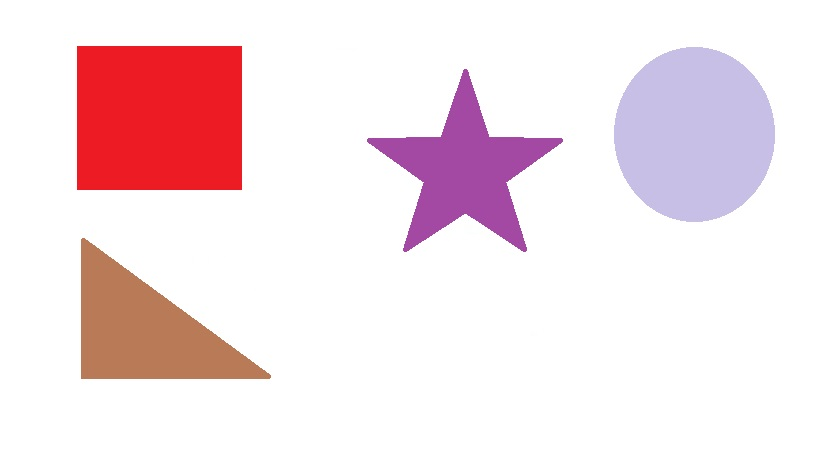
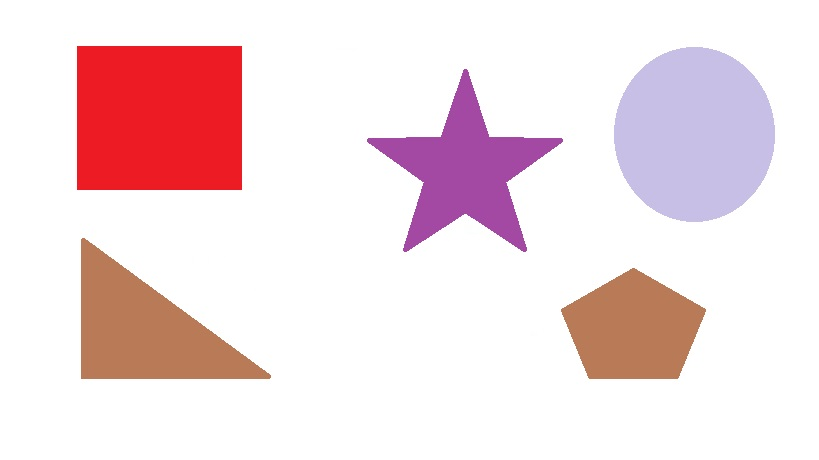
first commit

Changed region(s): [[0.6716, 0.5783, 0.8852, 0.8217]]

diff --git a/main.py b/main.py
@@ -1,6 +1,10 @@
 import cv2  # Importação do Opencv-Python
 import numpy as np
 import matplotlib.pyplot as plt
+import tkinter as tk
+from tkinter import filedialog, messagebox
+from PIL import Image, ImageTk
+
 
 """ Classe que fará o carregamento e leitura da imagem"""
 
@@ -39,6 +43,7 @@ class FormDetector:
             'triangulos': 0,
             'quadrados': 0,
             'circulos': 0,
+            'pentagono': 0,
             'outros': 0
         }
 
@@ -51,6 +56,9 @@ class FormDetector:
                 cv2.drawContours(imagem_original, [contorno], 0, (0, 255, 0), 2)
             elif len(aproximacao) == 4:
                 formas['quadrados'] += 1
+                cv2.drawContours(imagem_original, [contorno], 0, (255, 0, 0), 2)
+            elif len(aproximacao) == 5:
+                formas['pentagono'] += 1
                 cv2.drawContours(imagem_original, [contorno], 0, (255, 0, 0), 2)
             elif len(aproximacao) > 4:
                 area = cv2.contourArea(contorno)
@@ -75,33 +83,50 @@ class FormDetector:
 Formas detectadas:
 Triangulos: {formas['triangulos']}
 Quadrados: {formas['quadrados']}
+Pentagono: {formas['pentagono']}
 Circulos: {formas['circulos']}
 Outros: {formas['outros']}
 """
-        plt.text(imagem_original.shape[1],
-                 imagem_original.shape[0],
+        plt.text(10,
+                 imagem_original.shape[0] - 10,
                  legenda,
-                 fontsize = 10,
-                 verticalalignment = 'bottom',
-                 horizontalalignment = 'right')
+                 fontsize=10,
+                 verticalalignment='bottom',
+                 horizontalalignment='left',
+                 bbox=dict(facecolor='white', alpha=0.5))
 
         plt.tight_layout()
         plt.show()
 
+
 def main():
-    caminho_imagem = 'formas.jpg'
     detector = FormDetector()
 
-    try:
-        imagem = detector.load_image(caminho_imagem)
-        imagem_cinza = detector.convert_to_grayscale(imagem)
-        imagem_blur = detector.apply_blur(imagem_cinza)
-        imagem_bordas = detector.edge_detection(imagem_blur)
-        contornos = detector.find_lines(imagem_bordas)
-        formas = detector.classify_forms(contornos, imagem)
-        detector.view_results(imagem, formas)
-    except Exception as e:
-        print(f'Erro no processamento da imagem: {e}')
+    def load_and_process_image():
+        caminho_imagem = filedialog.askopenfilename(title="Selecione uma imagem",
+                                                    filetypes=[("Image files", "*.jpg;*.jpeg;*.png")])
+
+        if caminho_imagem:
+            try:
+                imagem = detector.load_image(caminho_imagem)
+                imagem_cinza = detector.convert_to_grayscale(imagem)
+                imagem_blur = detector.apply_blur(imagem_cinza)
+                imagem_bordas = detector.edge_detection(imagem_blur)
+                contornos = detector.find_lines(imagem_bordas)
+                formas = detector.classify_forms(contornos, imagem)
+                detector.view_results(imagem, formas)
+            except Exception as e:
+                messagebox.showerror("Erro", f'Erro no processamento da imagem: {e}')
+
+    # Configuração da interface gráfica
+    root = tk.Tk()
+    root.title("Detector de Formas")
+
+    load_button = tk.Button(root, text="Carregar Imagem", command=load_and_process_image)
+    load_button.pack(pady=20)
+
+    root.mainloop()
+
 
 if __name__ == "__main__":
-        main()
+    main()
